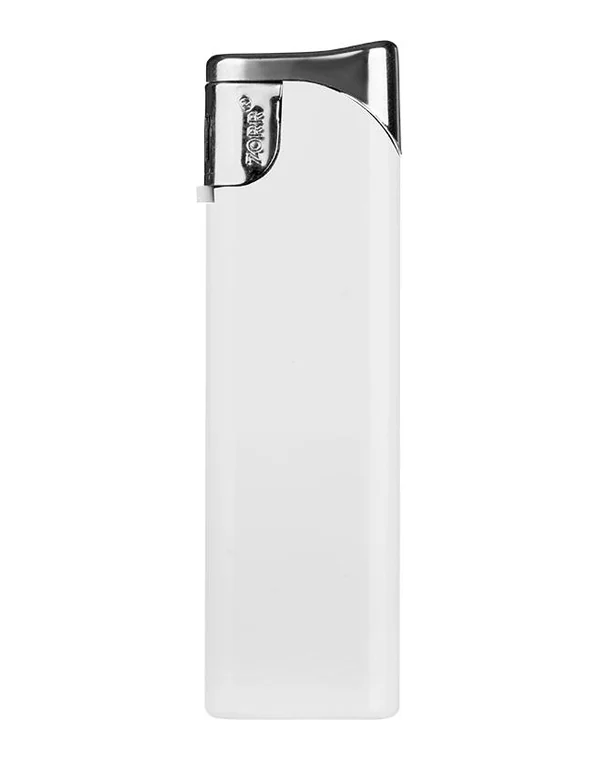
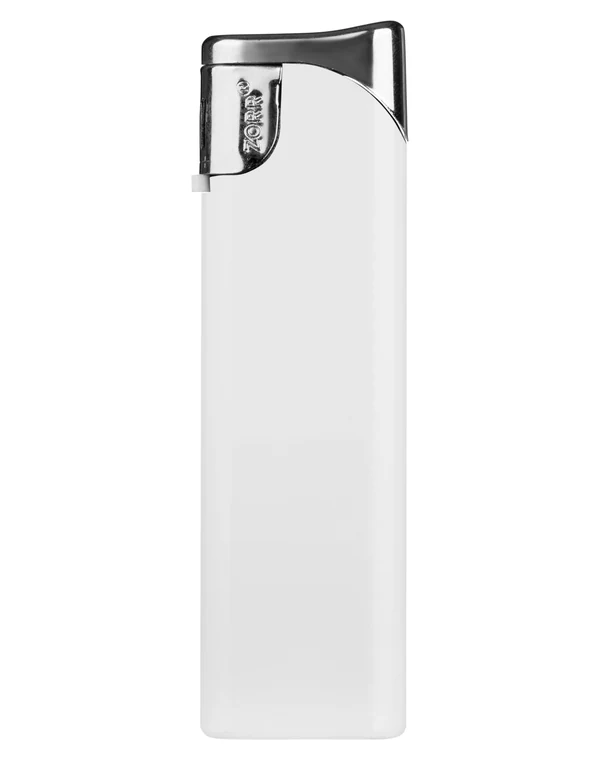
Veredelungs-Vorschau: echte Druckflächen (Slider), Tampondruck auf 71055B, Gravur-Beispiel Flachmann
Claude-Session: https://claude.ai/code/session_019wJGSzLvzad3gB3YWVYXNz

Changed region(s): [[0.3, 0.0, 0.69, 0.9987], [0.54, 0.9684, 0.63, 0.9987]]

diff --git a/index.html b/index.html
@@ -231,25 +231,24 @@ header.top nav a:hover { border-color: var(--red); }
 .tdesc b { font-family: var(--f-serif); }
 .promo .note { font-size: .8125rem; color: var(--muted); }
 .demo { position: relative; width: 100%; max-width: 440px; justify-self: center; aspect-ratio: 600 / 760; background: radial-gradient(60% 50% at 50% 55%, #f4f4f4, #fff 70%); }
-.demo .base { position: absolute; inset: 0; transition: opacity .5s ease, transform .5s ease; }
+.demo .base { position: absolute; inset: 0; opacity: 0; transform: scale(.96); transition: opacity .5s ease, transform .5s ease; }
 .demo .base img { display: block; width: 100%; height: 100%; max-width: 100%; }
-.demo .benzin { opacity: 0; transform: scale(.96); }
-.demo[data-t="laser"] .slider { opacity: 0; transform: scale(.96); }
-.demo[data-t="laser"] .benzin { opacity: 1; transform: none; }
-.demo .ov { position: absolute; display: grid; place-items: center; opacity: 0; transition: opacity .45s ease; pointer-events: none; }
-.demo[data-t="sieb"] .ov.sieb, .demo[data-t="tampon"] .ov.tampon, .demo[data-t="digital"] .ov.digital, .demo[data-t="laser"] .ov.laser { opacity: 1; }
-.demo .slider .ov { left: 36.5%; width: 27.5%; top: 33%; height: 54%; }
-.demo .ov svg { display: block; width: 180%; height: auto; transform: rotate(-90deg); flex: none; }
+.demo[data-t="sieb"] .slider, .demo[data-t="digital"] .slider, .demo[data-t="tampon"] .rubber, .demo[data-t="laser"] .flask { opacity: 1; transform: none; }
+.demo .ov { position: absolute; display: grid; place-items: center; opacity: 0; transition: opacity .45s ease; pointer-events: none; overflow: hidden; }
+.demo[data-t="sieb"] .ov.sieb, .demo[data-t="tampon"] .ov.tampon, .demo[data-t="digital"] .ov.digital { opacity: 1; }
+.demo .slider .ov { left: 39.24%; top: 26.02%; width: 22.59%; height: 67.78%; }
+.demo .rubber .ov { left: 25.26%; top: 36.17%; width: 43.71%; height: 50.42%; }
+.demo .ov svg { display: block; height: auto; flex: none; }
 .demo .ov.sieb { color: #8C0808; }
-.demo .ov.tampon { color: #1d1d1d; gap: 0; }
-.demo .ov.tampon svg { width: 120%; }
-.demo .ov.digital { left: 34.6%; width: 31.4%; top: 26%; height: 66.5%; border-radius: 3px 3px 10px 10px; color: #fff; overflow: hidden;
-  background: linear-gradient(160deg, #F7B500 0%, #E8473B 38%, #8C0808 62%, #2F80C3 100%); mix-blend-mode: multiply; }
-.demo .ov.digital::before { content: ""; position: absolute; inset: 0; background: radial-gradient(circle at 30% 20%, rgba(255,255,255,.55), transparent 40%), repeating-linear-gradient(135deg, rgba(255,255,255,.12) 0 6px, transparent 6px 14px); }
-.demo .ov.digital svg { position: relative; mix-blend-mode: normal; }
-.demo .benzin .ov.laser { left: 24%; width: 56%; top: 53%; height: 30%; color: rgba(55,55,55,.75); mix-blend-mode: multiply; filter: drop-shadow(0 1px 0 rgba(255,255,255,.7)); }
-.demo .benzin .ov.laser svg { width: 100%; transform: none; }
-.demo .label { position: absolute; left: 0; bottom: -6px; font-size: .6875rem; font-weight: 600; letter-spacing: .14em; text-transform: uppercase; color: var(--muted); }
+.demo .ov.sieb svg { width: 230%; transform: rotate(-90deg); }
+.demo .ov.digital { color: #fff; background: linear-gradient(170deg, #F7B500 0%, #E8473B 36%, #8C0808 62%, #2F80C3 100%); mix-blend-mode: multiply; }
+.demo .ov.digital::before { content: ""; position: absolute; inset: 0; background: radial-gradient(circle at 30% 18%, rgba(255,255,255,.5), transparent 42%), repeating-linear-gradient(135deg, rgba(255,255,255,.12) 0 6px, transparent 6px 14px); }
+.demo .ov.digital svg { position: relative; width: 230%; transform: rotate(-90deg); }
+.demo .ov.tampon { color: #EDEDED; }
+.demo .ov.tampon svg { width: 82%; }
+.demo .label { position: absolute; left: 0; right: 0; bottom: -6px; font-size: .6875rem; font-weight: 600; letter-spacing: .14em; text-transform: uppercase; color: var(--muted); }
+.demo .label span { display: none; }
+.demo[data-t="sieb"] .label [data-t="sieb"], .demo[data-t="tampon"] .label [data-t="tampon"], .demo[data-t="digital"] .label [data-t="digital"], .demo[data-t="laser"] .label [data-t="laser"] { display: inline; }
 @media (max-width: 860px) {
   .promo .wrap { grid-template-columns: minmax(0, 1fr); gap: 20px; }
   .promo .ptext { display: contents; }
@@ -497,9 +496,9 @@ footer .copy { font-size: .8125rem; }
         </div>
         <div class="tdesc" id="tech-desc" role="tabpanel" aria-live="polite">
           <p data-t="sieb"><b>Siebdruck</b> – kräftige, deckende Volltonfarben. Ideal für klare ein- oder mehrfarbige Logos.</p>
-          <p data-t="tampon" hidden><b>Tampondruck</b> – feine Details, auch auf gewölbten Flächen. Für präzise Logos und Schriftzüge.</p>
-          <p data-t="digital" hidden><b>Digitaldruck</b> – vollfarbig mit Verläufen und Bildmotiven. Für Designs ohne Farbgrenzen.</p>
-          <p data-t="laser" hidden><b>Lasergravur</b> – dauerhaft eingraviert und edel. Besonders wirkungsvoll auf Metallfeuerzeugen.</p>
+          <p data-t="tampon" hidden><b>Tampondruck</b> – feine Details, auch auf gewölbten Flächen. Für präzise Logos und Schriftzüge, auch hell auf dunklen Modellen.</p>
+          <p data-t="digital" hidden><b>Digitaldruck</b> – vollfarbig mit Verläufen und Bildmotiven, bis zur maximalen Druckfläche. Für Designs ohne Farbgrenzen.</p>
+          <p data-t="laser" hidden><b>Lasergravur</b> – dauerhaft eingraviert und edel. Besonders wirkungsvoll auf Metall, etwa auf Flachmännern oder Metallfeuerzeugen.</p>
         </div>
         <p class="note">Welche Veredelung möglich ist, hängt vom Modell ab.</p>
         <a class="btn red" href="https://www.kp-plattner.at/Werbefeuerzeuge/Feuerzeuge_WF?filter_marke=ZORR" target="_blank" rel="noopener">Alle ZORR® Werbefeuerzeuge bei KP Plattner <span class="arr" aria-hidden="true">→</span></a>
@@ -507,13 +506,13 @@ footer .copy { font-size: .8125rem; }
       <div class="demo rv" data-t="sieb" aria-hidden="true">
         <div class="base slider"><img src="img/werbe/demo-slider.webp" alt="" width="600" height="760" loading="lazy">
           <div class="ov sieb"><svg viewBox="0 0 200 80"><use href="#demo-logo"/></svg></div>
-          <div class="ov tampon"><svg viewBox="0 0 200 80"><use href="#demo-logo"/></svg></div>
           <div class="ov digital"><svg viewBox="0 0 200 80"><use href="#demo-logo"/></svg></div>
         </div>
-        <div class="base benzin"><img src="img/werbe/demo-benzin.webp" alt="" width="600" height="760" loading="lazy">
-          <div class="ov laser"><svg viewBox="0 0 200 80"><use href="#demo-logo"/></svg></div>
+        <div class="base rubber"><img src="img/werbe/demo-rubber.webp" alt="" width="600" height="760" loading="lazy">
+          <div class="ov tampon"><svg viewBox="0 0 200 80"><use href="#demo-logo"/></svg></div>
         </div>
-        <span class="label">Beispiel: Ihr Logo</span>
+        <div class="base flask"><img src="img/werbe/demo-flachmann.webp" alt="" width="600" height="760" loading="lazy"></div>
+        <span class="label"><span data-t="sieb">Beispiel: Ihr Logo im Siebdruck</span><span data-t="tampon">Beispiel: Ihr Logo im Tampondruck</span><span data-t="digital">Beispiel: maximale Druckfläche im Digitaldruck</span><span data-t="laser">Beispiel: Lasergravur auf Flachmann</span></span>
       </div>
     </div>
   </section>
